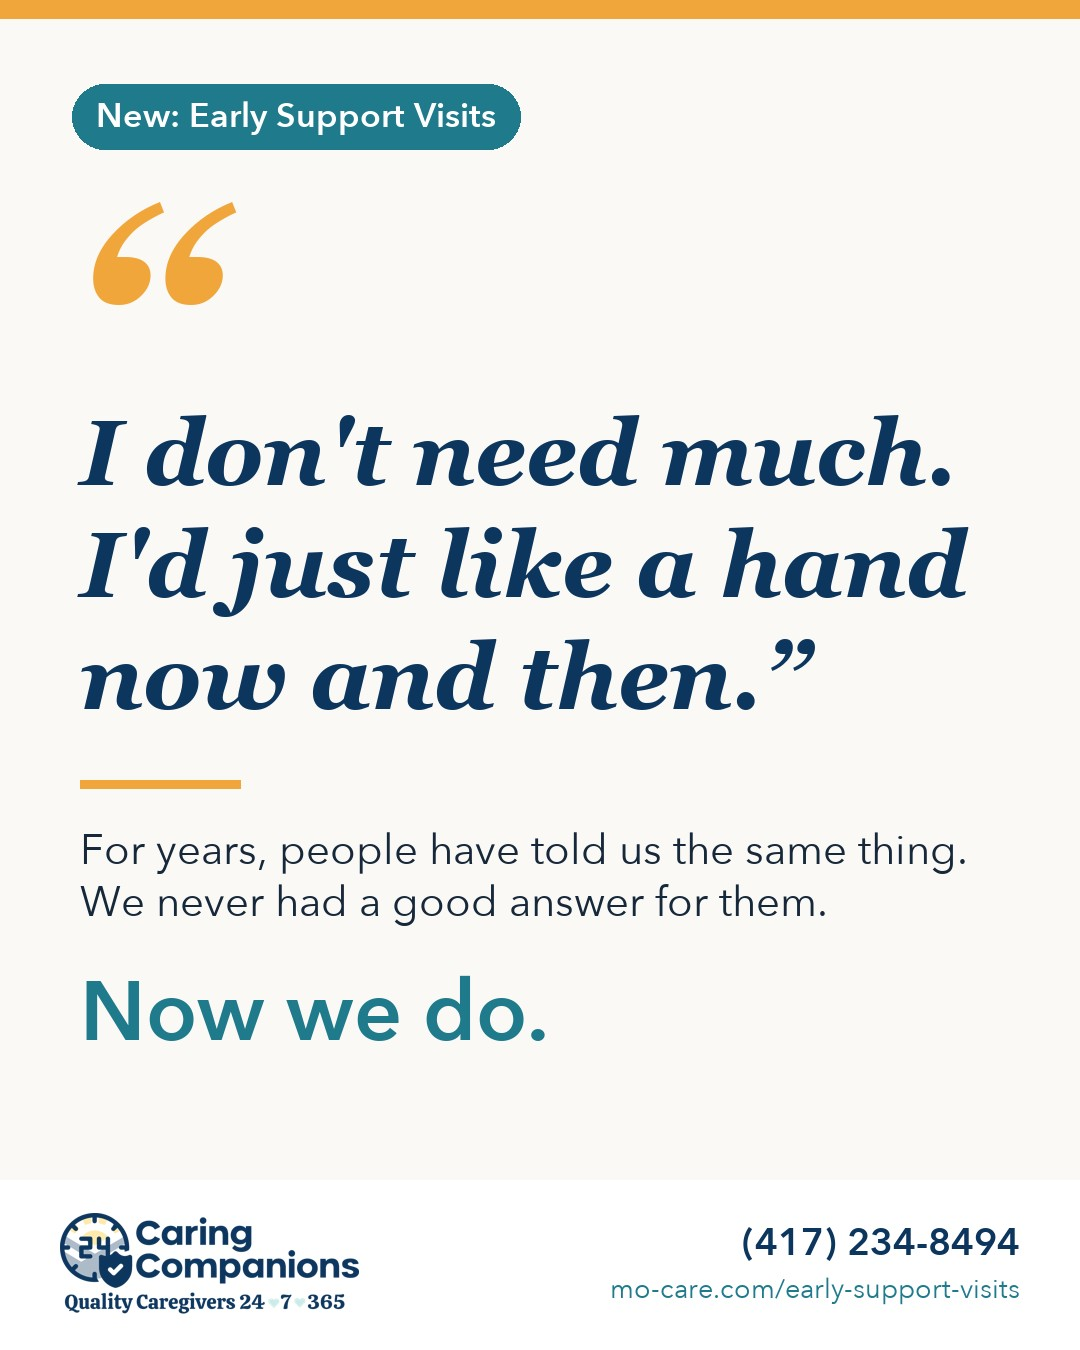
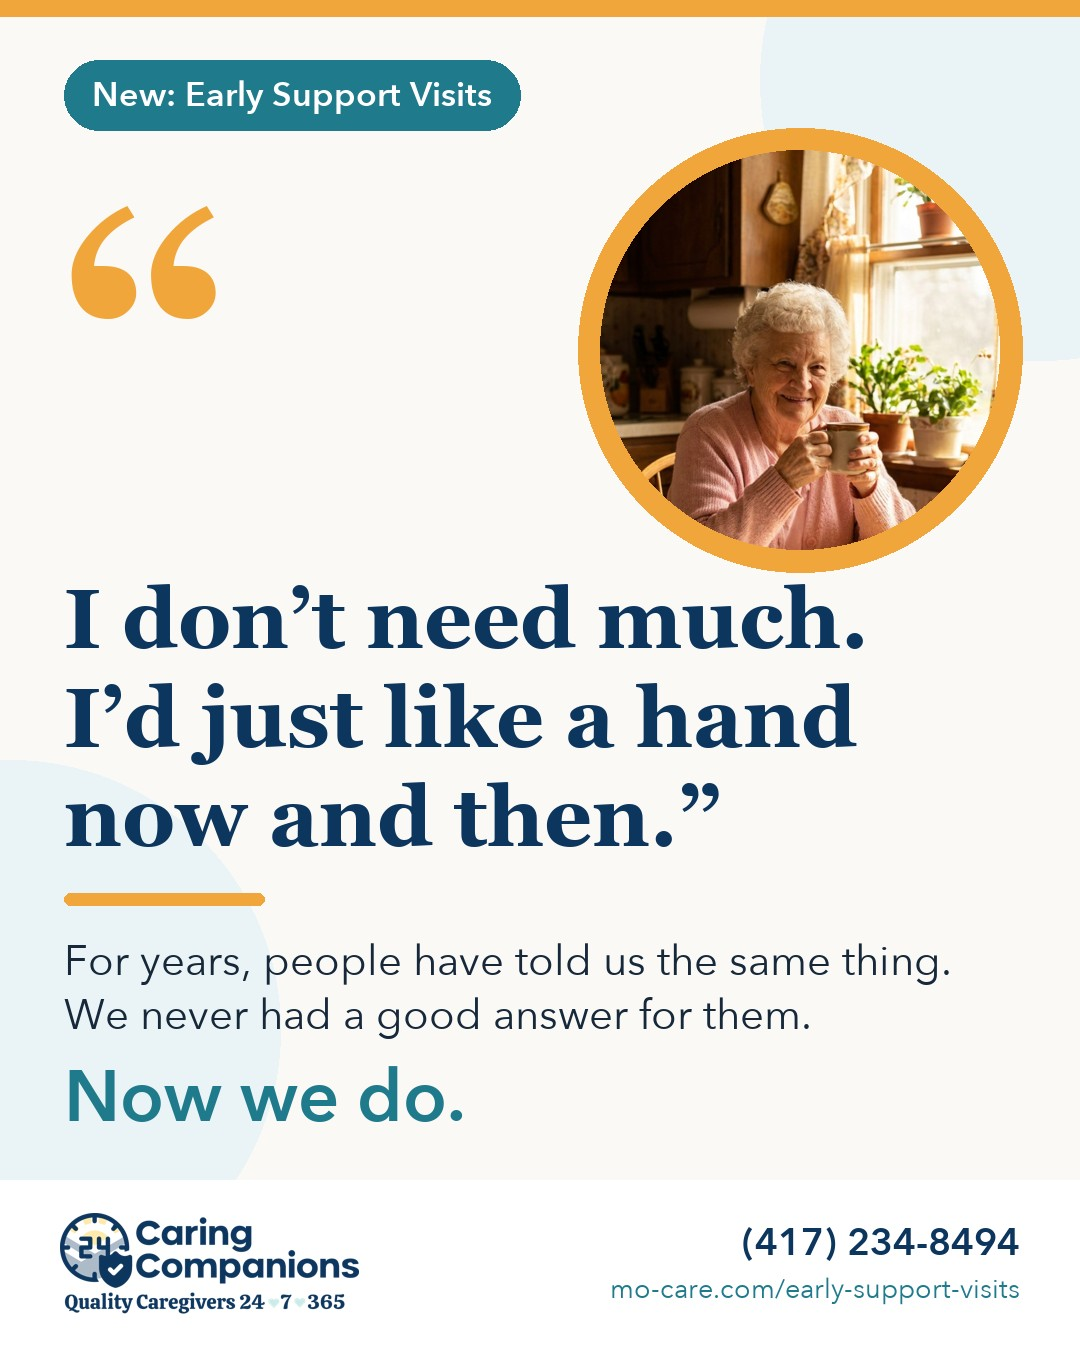
Marketing Materials: Early Support Visits post pictures in the graphic look
The nine post pictures redone to match the reels (framed photos, brand icons,
cream backgrounds), same file names, new cache tag.

diff --git a/marketing.html b/marketing.html
@@ -53,18 +53,18 @@
 </table>
 
 <h3 style="margin-top:18px">Post pictures</h3>
-<p class="lead">One picture for each post in the four-week plan, approved November 13. Nothing is scheduled yet. The wording that goes with each picture is in the marketing plan.</p>
+<p class="lead">One picture for each post in the four-week plan, in the same look as the reels, approved November 13. Nothing is scheduled yet. The wording that goes with each picture is in the marketing plan.</p>
 <table>
  <tr><th>Picture</th><th>Open the picture</th><th>When it runs</th></tr>
- <tr><td>Post 1: the announcement<br><span class="muted small">"I don't need much. I'd just like a hand now and then." Now we do.</span><br><img src="marketing/47-esv-post-1-announcement.jpg?v=20261113a" alt="Post 1: the announcement" loading="lazy" style="max-width:180px;margin-top:8px;border-radius:8px;border:1px solid #e4e1d8"></td><td><a href="marketing/47-esv-post-1-announcement.jpg?v=20261113a" target="_blank" rel="noopener" download>47-esv-post-1-announcement.jpg</a></td><td>Week 1, Monday of the four-week plan.</td></tr>
- <tr><td>Post 2: what a visit looks like<br><span class="muted small">"What can happen in an Early Support Visit?"</span><br><img src="marketing/48-esv-post-2-what-a-visit-looks-like.jpg?v=20261113a" alt="Post 2: what a visit looks like" loading="lazy" style="max-width:180px;margin-top:8px;border-radius:8px;border:1px solid #e4e1d8"></td><td><a href="marketing/48-esv-post-2-what-a-visit-looks-like.jpg?v=20261113a" target="_blank" rel="noopener" download>48-esv-post-2-what-a-visit-looks-like.jpg</a></td><td>Week 1, Friday of the four-week plan.</td></tr>
- <tr><td>Post 3: yes, we clean<br><span class="muted small">"Do your caregivers really clean?" Yes.</span><br><img src="marketing/49-esv-post-3-yes-we-clean.jpg?v=20261113a" alt="Post 3: yes, we clean" loading="lazy" style="max-width:180px;margin-top:8px;border-radius:8px;border:1px solid #e4e1d8"></td><td><a href="marketing/49-esv-post-3-yes-we-clean.jpg?v=20261113a" target="_blank" rel="noopener" download>49-esv-post-3-yes-we-clean.jpg</a></td><td>Week 2, Friday of the four-week plan.</td></tr>
- <tr><td>Post 4: is it for me<br><span class="muted small">The four-line checklist</span><br><img src="marketing/50-esv-post-4-is-it-for-me.jpg?v=20261113a" alt="Post 4: is it for me" loading="lazy" style="max-width:180px;margin-top:8px;border-radius:8px;border:1px solid #e4e1d8"></td><td><a href="marketing/50-esv-post-4-is-it-for-me.jpg?v=20261113a" target="_blank" rel="noopener" download>50-esv-post-4-is-it-for-me.jpg</a></td><td>Week 3, Monday of the four-week plan.</td></tr>
- <tr><td>Post 5: the price, plainly<br><span class="muted small">$152 once a month, $140 every other week, the $99 assessment and setup</span><br><img src="marketing/51-esv-post-5-the-price-plainly.jpg?v=20261113a" alt="Post 5: the price, plainly" loading="lazy" style="max-width:180px;margin-top:8px;border-radius:8px;border:1px solid #e4e1d8"></td><td><a href="marketing/51-esv-post-5-the-price-plainly.jpg?v=20261113a" target="_blank" rel="noopener" download>51-esv-post-5-the-price-plainly.jpg</a></td><td>Week 3, Friday of the four-week plan.</td></tr>
- <tr><td>Post 6: for sons and daughters<br><span class="muted small">"Your mom says she's fine. She probably is."</span><br><img src="marketing/52-esv-post-6-for-sons-and-daughters.jpg?v=20261113a" alt="Post 6: for sons and daughters" loading="lazy" style="max-width:180px;margin-top:8px;border-radius:8px;border:1px solid #e4e1d8"></td><td><a href="marketing/52-esv-post-6-for-sons-and-daughters.jpg?v=20261113a" target="_blank" rel="noopener" download>52-esv-post-6-for-sons-and-daughters.jpg</a></td><td>Week 4, Monday of the four-week plan.</td></tr>
- <tr><td>Post 7: for professionals<br><span class="muted small">"If you work with older adults, you know someone like this."</span><br><img src="marketing/53-esv-post-7-for-professionals.jpg?v=20261113a" alt="Post 7: for professionals" loading="lazy" style="max-width:180px;margin-top:8px;border-radius:8px;border:1px solid #e4e1d8"></td><td><a href="marketing/53-esv-post-7-for-professionals.jpg?v=20261113a" target="_blank" rel="noopener" download>53-esv-post-7-for-professionals.jpg</a></td><td>Week 4, Friday of the four-week plan.</td></tr>
- <tr><td>Post 8: agency minimums<br><span class="muted small">"Have home care agency minimums kept you from getting a little help for your aging parent?"</span><br><img src="marketing/54-esv-post-8-agency-minimums.jpg?v=20261113a" alt="Post 8: agency minimums" loading="lazy" style="max-width:180px;margin-top:8px;border-radius:8px;border:1px solid #e4e1d8"></td><td><a href="marketing/54-esv-post-8-agency-minimums.jpg?v=20261113a" target="_blank" rel="noopener" download>54-esv-post-8-agency-minimums.jpg</a></td><td>Week 3, Thursday of the four-week plan.</td></tr>
- <tr><td>Post 8, second version<br><span class="muted small">"Don't need 8 hours of care per week? Now you have another option."</span><br><img src="marketing/55-esv-post-8b-dont-need-8-hours.jpg?v=20261113a" alt="Post 8, second version" loading="lazy" style="max-width:180px;margin-top:8px;border-radius:8px;border:1px solid #e4e1d8"></td><td><a href="marketing/55-esv-post-8b-dont-need-8-hours.jpg?v=20261113a" target="_blank" rel="noopener" download>55-esv-post-8b-dont-need-8-hours.jpg</a></td><td>Week 4, Thursday of the four-week plan.</td></tr>
+ <tr><td>Post 1: the announcement<br><span class="muted small">"I don't need much. I'd just like a hand now and then." Now we do.</span><br><img src="marketing/47-esv-post-1-announcement.jpg?v=20261113b" alt="Post 1: the announcement" loading="lazy" style="max-width:180px;margin-top:8px;border-radius:8px;border:1px solid #e4e1d8"></td><td><a href="marketing/47-esv-post-1-announcement.jpg?v=20261113b" target="_blank" rel="noopener" download>47-esv-post-1-announcement.jpg</a></td><td>Week 1, Monday of the four-week plan.</td></tr>
+ <tr><td>Post 2: what a visit looks like<br><span class="muted small">"What can happen in an Early Support Visit?"</span><br><img src="marketing/48-esv-post-2-what-a-visit-looks-like.jpg?v=20261113b" alt="Post 2: what a visit looks like" loading="lazy" style="max-width:180px;margin-top:8px;border-radius:8px;border:1px solid #e4e1d8"></td><td><a href="marketing/48-esv-post-2-what-a-visit-looks-like.jpg?v=20261113b" target="_blank" rel="noopener" download>48-esv-post-2-what-a-visit-looks-like.jpg</a></td><td>Week 1, Friday of the four-week plan.</td></tr>
+ <tr><td>Post 3: yes, we clean<br><span class="muted small">"Do your caregivers really clean?" Yes.</span><br><img src="marketing/49-esv-post-3-yes-we-clean.jpg?v=20261113b" alt="Post 3: yes, we clean" loading="lazy" style="max-width:180px;margin-top:8px;border-radius:8px;border:1px solid #e4e1d8"></td><td><a href="marketing/49-esv-post-3-yes-we-clean.jpg?v=20261113b" target="_blank" rel="noopener" download>49-esv-post-3-yes-we-clean.jpg</a></td><td>Week 2, Friday of the four-week plan.</td></tr>
+ <tr><td>Post 4: is it for me<br><span class="muted small">The four-line checklist</span><br><img src="marketing/50-esv-post-4-is-it-for-me.jpg?v=20261113b" alt="Post 4: is it for me" loading="lazy" style="max-width:180px;margin-top:8px;border-radius:8px;border:1px solid #e4e1d8"></td><td><a href="marketing/50-esv-post-4-is-it-for-me.jpg?v=20261113b" target="_blank" rel="noopener" download>50-esv-post-4-is-it-for-me.jpg</a></td><td>Week 3, Monday of the four-week plan.</td></tr>
+ <tr><td>Post 5: the price, plainly<br><span class="muted small">$152 once a month, $140 every other week, the $99 assessment and setup</span><br><img src="marketing/51-esv-post-5-the-price-plainly.jpg?v=20261113b" alt="Post 5: the price, plainly" loading="lazy" style="max-width:180px;margin-top:8px;border-radius:8px;border:1px solid #e4e1d8"></td><td><a href="marketing/51-esv-post-5-the-price-plainly.jpg?v=20261113b" target="_blank" rel="noopener" download>51-esv-post-5-the-price-plainly.jpg</a></td><td>Week 3, Friday of the four-week plan.</td></tr>
+ <tr><td>Post 6: for sons and daughters<br><span class="muted small">"Your mom says she's fine. She probably is."</span><br><img src="marketing/52-esv-post-6-for-sons-and-daughters.jpg?v=20261113b" alt="Post 6: for sons and daughters" loading="lazy" style="max-width:180px;margin-top:8px;border-radius:8px;border:1px solid #e4e1d8"></td><td><a href="marketing/52-esv-post-6-for-sons-and-daughters.jpg?v=20261113b" target="_blank" rel="noopener" download>52-esv-post-6-for-sons-and-daughters.jpg</a></td><td>Week 4, Monday of the four-week plan.</td></tr>
+ <tr><td>Post 7: for professionals<br><span class="muted small">"If you work with older adults, you know someone like this."</span><br><img src="marketing/53-esv-post-7-for-professionals.jpg?v=20261113b" alt="Post 7: for professionals" loading="lazy" style="max-width:180px;margin-top:8px;border-radius:8px;border:1px solid #e4e1d8"></td><td><a href="marketing/53-esv-post-7-for-professionals.jpg?v=20261113b" target="_blank" rel="noopener" download>53-esv-post-7-for-professionals.jpg</a></td><td>Week 4, Friday of the four-week plan.</td></tr>
+ <tr><td>Post 8: agency minimums<br><span class="muted small">"Have home care agency minimums kept you from getting a little help for your aging parent?"</span><br><img src="marketing/54-esv-post-8-agency-minimums.jpg?v=20261113b" alt="Post 8: agency minimums" loading="lazy" style="max-width:180px;margin-top:8px;border-radius:8px;border:1px solid #e4e1d8"></td><td><a href="marketing/54-esv-post-8-agency-minimums.jpg?v=20261113b" target="_blank" rel="noopener" download>54-esv-post-8-agency-minimums.jpg</a></td><td>Week 3, Thursday of the four-week plan.</td></tr>
+ <tr><td>Post 8, second version<br><span class="muted small">"Don't need 8 hours of care per week? Now you have another option."</span><br><img src="marketing/55-esv-post-8b-dont-need-8-hours.jpg?v=20261113b" alt="Post 8, second version" loading="lazy" style="max-width:180px;margin-top:8px;border-radius:8px;border:1px solid #e4e1d8"></td><td><a href="marketing/55-esv-post-8b-dont-need-8-hours.jpg?v=20261113b" target="_blank" rel="noopener" download>55-esv-post-8b-dont-need-8-hours.jpg</a></td><td>Week 4, Thursday of the four-week plan.</td></tr>
 </table>
 
 <h2>Veterans program</h2>
